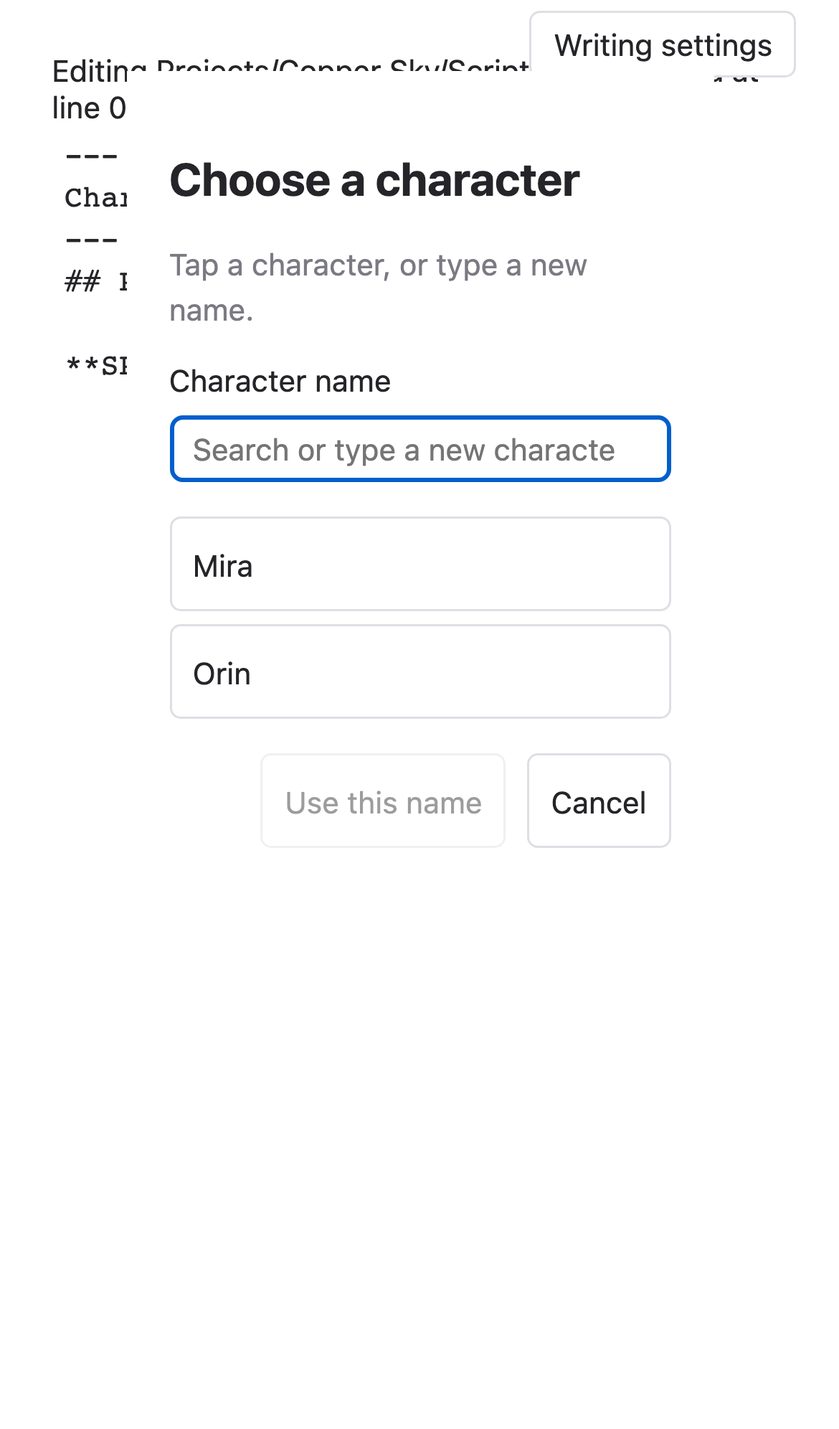
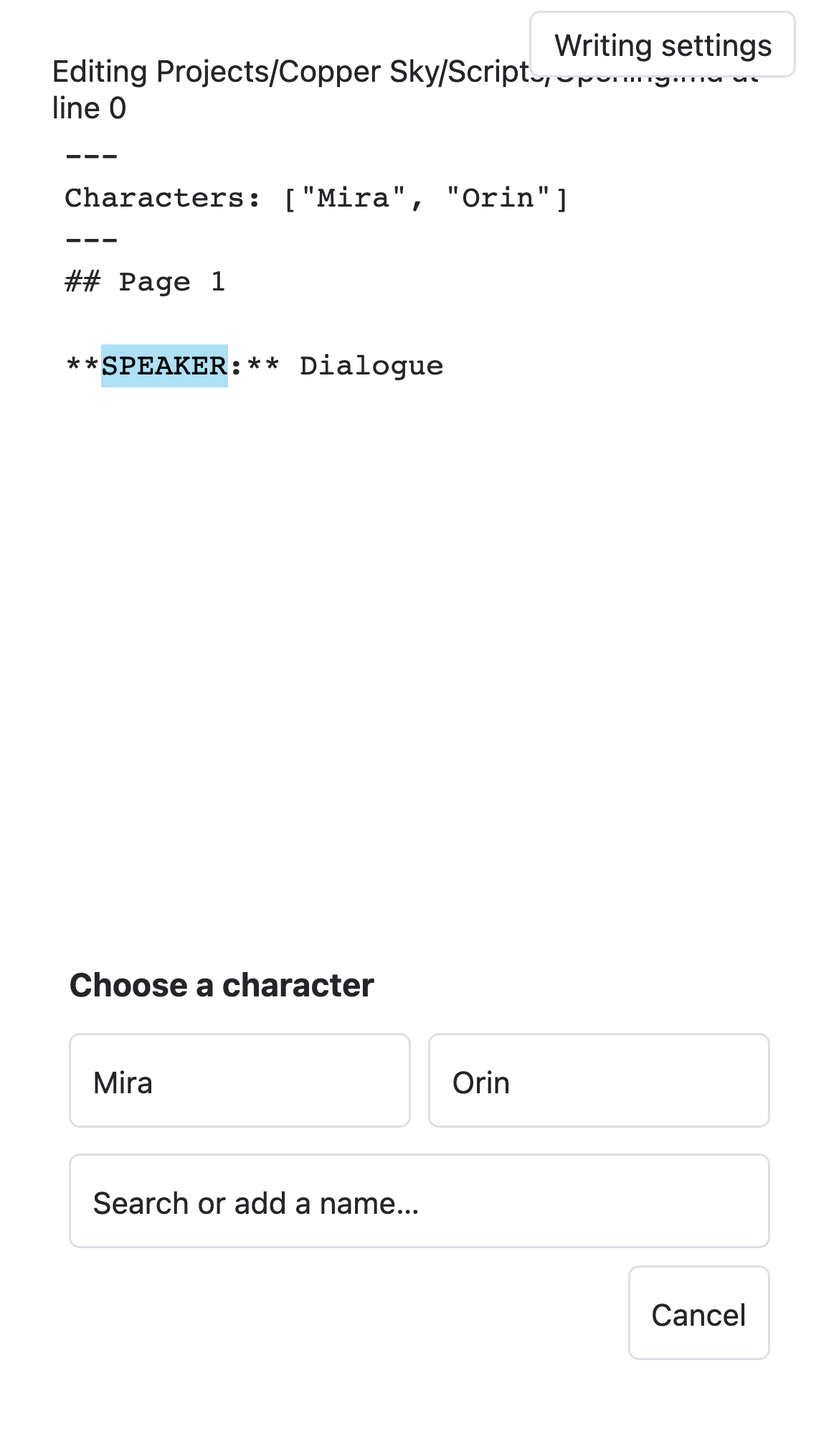
Mobile Dialog picker

diff --git a/src/scripts/mobile-speaker-picker.ts b/src/scripts/mobile-speaker-picker.ts
@@ -5,44 +5,65 @@ import { filterSpeakers, type Speaker } from "./speakers.ts";
 import { speakerPicker, closeSpeakerPicker, chooseSpeaker } from "./speaker-picker.ts";
 
 const dialogs = new WeakMap<EditorView, MobileSpeakerModal>();
+// Session-only, bounded recency: no name history or preference is written to the vault.
+const recent = new WeakMap<App, Map<string, string[]>>();
 
 class MobileSpeakerModal extends Modal {
   private original;
   private restoreFocus = true;
   private clearState = true;
+  private cleanupViewport?: () => void;
   constructor(app: App, private view: EditorView, private path: string, private candidates: Speaker[]) {
     super(app);
+    this.shouldRestoreSelection = false;
     this.original = view.state.doc;
   }
   onOpen() {
     this.modalEl.classList.add("marginalia-mobile-speaker-picker");
+    this.containerEl?.classList.add("marginalia-speaker-sheet-container");
     const root = this.contentEl;
-    root.append(el("h2", "", "Choose a character"));
-    root.append(el("p", "marginalia-script-caption", "Tap a character, or type a new name."));
+    const heading = el("h2", "", "Choose a character");
+    heading.tabIndex = -1;
+    root.append(heading);
     const label = el("label", "marginalia-mobile-speaker-label", "Character name");
     const input = el("input") as HTMLInputElement;
     input.type = "search";
     input.placeholder = "Search or type a new character…";
     input.setAttribute("aria-label", "Character name");
     label.append(input);
+    label.hidden = true;
+    const search = button("Search or add a name…", () => {
+      label.hidden = false; search.hidden = true;
+      draw(); input.focus({preventScroll:true});
+    }, "marginalia-mobile-speaker-search");
     const list = el("div", "marginalia-mobile-speaker-list");
     list.setAttribute("role", "group");
     list.setAttribute("aria-label", "Characters used in this script");
     const actions = el("div", "marginalia-mobile-speaker-actions");
     const useName = button("Use this name", () => {
       const name = input.value.trim();
-      if (name && !/[\r\n:*]/.test(name)) this.choose({id:name, name, insert:name});
+      if (name && !/[\r\n:*]/.test(name)) this.choose({id:"name:" + name.normalize("NFKC").toLocaleLowerCase(), name, insert:name});
     });
     const draw = () => {
       list.replaceChildren();
-      const choices = filterSpeakers(this.candidates, input.value);
+      const ids = recent.get(this.app)?.get(this.path) ?? [];
+      const ordered = [...this.candidates].sort((a,b) => {
+        const rank = (id:string) => ids.includes(id) ? ids.indexOf(id) : ids.length;
+        return rank(a.id)-rank(b.id);
+      });
+      const matches = filterSpeakers(ordered, input.value);
+      const choices = label.hidden ? matches.slice(0,6) : matches;
       for (const choice of choices) {
         const item = button(choice.name, () => this.choose(choice), "marginalia-mobile-speaker-choice");
-        if (choice.path) item.append(el("small", "", choice.path));
+        if (choice.path && this.candidates.some(other => other.id !== choice.id && other.name === choice.name))
+          item.append(el("small", "", choice.path));
         list.append(item);
       }
       if (!choices.length) list.append(el("p", "marginalia-script-caption", "No matching character. You can use a new name."));
       useName.disabled = !input.value.trim() || /[\r\n:*]/.test(input.value);
+      useName.hidden = !input.value.trim();
+      if (!useName.hidden) useName.textContent = `Use “${input.value.trim()}”`;
+      search.textContent = this.candidates.length > 6 ? `Search ${this.candidates.length} characters or add a name…` : "Search or add a name…";
     };
     input.oninput = draw;
     // Soft-keyboard events and repeated Enter must never accept the first result.
@@ -52,10 +73,22 @@ class MobileSpeakerModal extends Modal {
     input.onbeforeinput = event => {
       if (["insertParagraph", "insertLineBreak"].includes(event.inputType)) event.preventDefault();
     };
+    // No held/repeated Enter can activate the first button after the editor blurs.
+    root.addEventListener("keydown", event => {
+      if (event.key === "Enter") { event.preventDefault(); event.stopPropagation(); }
+    }, true);
     actions.append(useName, button("Cancel", () => this.close()));
-    root.append(label, list, actions);
+    root.append(list, search, label, actions);
     draw();
-    input.focus();
+    heading.focus({preventScroll:true});
+    // Keep the native sheet above the visible keyboard when search is explicitly opened.
+    const win = this.modalEl.ownerDocument.defaultView, viewport = win?.visualViewport;
+    const position = () => {
+      this.containerEl?.style.setProperty("--marginalia-speaker-viewport-top", `${viewport?.offsetTop ?? 0}px`);
+      this.containerEl?.style.setProperty("--marginalia-speaker-viewport-height", `${viewport?.height ?? win?.innerHeight ?? 600}px`);
+    };
+    position(); viewport?.addEventListener("resize", position); viewport?.addEventListener("scroll", position); win?.addEventListener("resize", position);
+    this.cleanupViewport = () => { viewport?.removeEventListener("resize", position); viewport?.removeEventListener("scroll", position); win?.removeEventListener("resize", position); };
   }
   private choose(choice: Speaker) {
     if (!this.view.dom.isConnected || this.view.state.doc !== this.original ||
@@ -68,6 +101,10 @@ class MobileSpeakerModal extends Modal {
       new Notice("Could not insert the character. Cancel and use /d again.");
       return;
     }
+    const paths = recent.get(this.app) ?? new Map<string,string[]>();
+    recent.set(this.app,paths);
+    paths.set(this.path,[choice.id,...(paths.get(this.path) ?? []).filter(id => id !== choice.id)].slice(0,6));
+    if (paths.size > 32) paths.delete(paths.keys().next().value!);
     this.close();
   }
   discard() {
@@ -75,11 +112,13 @@ class MobileSpeakerModal extends Modal {
     this.close();
   }
   onClose() {
+    this.cleanupViewport?.();
     if (dialogs.get(this.view) === this) dialogs.delete(this.view);
     if (this.clearState && this.view.state.field(speakerPicker, false))
       this.view.dispatch({effects: closeSpeakerPicker.of(null)});
     this.contentEl.replaceChildren();
-    if (this.restoreFocus && this.view.dom.isConnected) this.view.focus();
+    if (this.restoreFocus && this.view.dom.isConnected && this.view.state.field(editorInfoField, false)?.file?.path === this.path)
+      this.view.focus();
   }
 }
 
@@ -90,7 +129,10 @@ export function openMobileSpeakerPicker(app: App, view: EditorView, path: string
   // Finish the originating Enter event before focusing a native dialog.
   queueMicrotask(() => {
     if (dialogs.get(view) !== dialog) return;
-    if (view.dom.isConnected && view.state.field(speakerPicker, false)) dialog.open();
+    if (view.dom.isConnected && view.state.field(speakerPicker, false)) {
+      view.contentDOM.blur();
+      dialog.open();
+    }
     else dialog.discard();
   });
 }

diff --git a/styles.css b/styles.css
@@ -945,6 +945,23 @@ body.is-mobile .marginalia-project-card {overflow-wrap:anywhere;}
 .marginalia-mobile-speaker-choice small {color:var(--text-muted);}
 .marginalia-mobile-speaker-actions {display:flex;flex-wrap:wrap;gap:10px;justify-content:flex-end;}
 .marginalia-mobile-speaker-actions button {min-height:44px;}
+body.is-mobile .marginalia-speaker-sheet-container {
+  position:fixed;top:var(--marginalia-speaker-viewport-top,0px);bottom:auto;
+  height:var(--marginalia-speaker-viewport-height,100dvh);left:0;right:0;
+  display:flex;align-items:flex-end;justify-content:center;padding:12px 12px max(12px,env(safe-area-inset-bottom));
+}
+body.is-mobile .marginalia-mobile-speaker-picker {
+  position:relative !important;inset:auto !important;margin:0 !important;transform:none !important;
+  width:min(100%,560px);min-width:0;max-width:100%;max-height:calc(100% - 24px);
+  padding:20px;border-radius:18px;overflow:auto;
+}
+.marginalia-mobile-speaker-picker h2 {font-size:var(--font-ui-medium);margin:0 30px 14px 0;}
+.marginalia-mobile-speaker-picker .marginalia-mobile-speaker-list {flex-direction:row;flex-wrap:wrap;gap:8px;margin:0 0 12px;max-height:28vh;}
+.marginalia-mobile-speaker-picker .marginalia-mobile-speaker-choice {flex:1 0 calc(50% - 8px);min-width:0;max-width:100%;}
+.marginalia-mobile-speaker-search {width:100%;min-height:44px;white-space:normal;text-align:left;margin-bottom:8px;}
+.marginalia-mobile-speaker-picker .marginalia-mobile-speaker-label {margin-bottom:10px;}
+.marginalia-mobile-speaker-picker [hidden] {display:none !important;}
+.marginalia-mobile-speaker-picker .marginalia-mobile-speaker-actions {gap:8px;}
 
 /* Focus is local to recognized native script editors. */
 .marginalia-writing-focus .cm-line { opacity: .45; }

diff --git a/scripts/obsidian-preview.ts b/scripts/obsidian-preview.ts
@@ -33,11 +33,12 @@ export class MarkdownRenderChild { constructor(public containerEl: any) {} }
 export class FuzzySuggestModal {}
 export const normalizePath = (path: string) => path.replace(/\\/g, "/").replace(/\/{2,}/g, "/").replace(/^\/(?!$)|\/$/g, "") || "/";
 export class Modal {
+  containerEl = document.createElement("div");
   modalEl = document.createElement("div");
   contentEl = document.createElement("div");
   constructor(public app: any) {}
-  open() { this.contentEl.setAttribute("role", "dialog");this.modalEl.style.cssText="position:fixed;z-index:1000;inset:5vh 15vw;background:var(--background-primary);padding:20px;overflow:auto;";this.modalEl.append(this.contentEl); document.body.append(this.modalEl); (this as any).onOpen?.(); }
-  close() { (this as any).onClose?.(); this.modalEl.remove(); }
+  open() { this.contentEl.setAttribute("role", "dialog");this.modalEl.style.cssText="position:fixed;z-index:1000;inset:5vh 15vw;background:var(--background-primary);padding:20px;overflow:auto;";this.modalEl.append(this.contentEl);this.containerEl.append(this.modalEl); document.body.append(this.containerEl); (this as any).onOpen?.(); }
+  close() { (this as any).onClose?.(); this.containerEl.remove(); }
 }
 export const MarkdownRenderer = {
   render: async (_app: any, text: string, el: HTMLElement) => {

diff --git a/docs/verification/dialogue-picker-2026-10-25.md b/docs/verification/dialogue-picker-2026-10-25.md
@@ -1,0 +1,48 @@
+# Compact dialogue picker trial — October 25, 2026
+
+D-0045 implements the owner's approved reversible trial in the Obsidian plugin only. Installed in the authorized Reanimator iCloud vault and packaged in `dist/marginalia-0.1.0-dev.zip`; the test-vault installation also has matching files. No saved-data schema or note migration.
+
+## Behavior
+
+`/d` plus Enter retains the existing native shortcut transaction. On mobile, the editor blurs and a native Modal appears as a compact bottom sheet with up to six character buttons. It starts without a visible/focused text field. Recent successful choices for the current script come first; recency is bounded, in memory and resets with the plugin session. Search or add a name explicitly opens the search field, makes the complete cast available, and exposes a named Use action for entered text. The sheet tracks the owner window's visual viewport. Selection and Cancel synchronously restore native editor focus; choosing selects Dialogue, while Cancel leaves SPEAKER selected. The existing source/document/file checks, isolated Undo, mobile lifecycle cleanup and desktop inline dropdown remain.
+
+## Verification
+
+| Requirement | Evidence | Result |
+| --- | --- | --- |
+| Existing behavior/build | 196 automated tests (125 pure/core + 71 host), typecheck/package | Pass |
+| Bottom layout with no initial text focus | Production component in phone/Android/tablet Chromium profiles; native iPhone Mirroring screenshot | Pass at these boundaries |
+| Six quick choices; full cast searchable | Eight-candidate browser fixture shows six quick choices; search selects the eighth; previous successful Orin sorts first | Pass, browser |
+| Native recent ordering | Explicit Orin choice, Undo/reopen; Orin appears before Mira | Pass, iPhone |
+| Explicit character choice and focus | Native Orin tap closes sheet and selects Dialogue in editor; subsequent Undo restores SPEAKER, then `/d` | Pass, iPhone with Mac keyboard |
+| Repeated Enter cannot pick first item | Native host focuses first character button after opening; repeated Enter leaves sheet open; browser tests also exercise repeated soft line breaks | Pass at observed boundaries |
+| Optional search/custom name | Native Search opens field; type Nova; Enter does not accept; explicit Use “Nova” selects Dialogue in editor | Pass, iPhone with Mac keyboard |
+| Cancel | Native tap closes sheet with SPEAKER selected; no name replacement | Pass, iPhone |
+| Stale source and destroyed editor | Browser regression edits document while open (no overwrite); destroys editor (sheet closes) | Pass, browser |
+| Viewport changes during search | Browser reduces viewport to 60% height with search open; sheet stays within visible bounds in all three profiles | Pass, simulated viewport |
+| Desktop behavior | Real-CodeMirror browser desktop inline dropdown/arrows/Enter retained; no mobile dialog | Pass, browser |
+| Other Modal consumers | Compile and workspace browser regressions after realistic preview Modal wrapper change | Pass, browser |
+| Preservation | All 60 original creative-vault Markdown hashes unchanged; only the owned fictional Device Checks script changed during owner/assistant testing | Pass |
+| Final installation and rollback | Three installed files match distribution; prior ZIP contents match saved previous three-file build | Pass |
+| Actual software keyboard animation/IME/Android | Mirroring uses the Mac hardware keyboard. No measured direct-device animation, keyboard reopening, IME or physical Android acceptance | Pending owner device trial |
+
+The owner enabled the installed trial and performed an initial check; afterward Mira: Dialogue was visible with Dialogue selected. Native automation then separately observed bottom placement, Orin choice, recency, search/custom name, Cancel and Undo. The owner's short “Done” reply is not treated as a specific confirmation of software-keyboard smoothness. Mirroring intermittently displayed taps without applying them, requiring reconnection and owner-assisted toggles; keyboard shortcuts and later taps allowed the functional checks. These tool problems are not attributed to the picker.
+
+Assistant-added test dialogue was undone; the owner's Mira: Dialogue example remains in the fictional project. No model calls, settings edits, new persistence, dependencies or original-script edits.
+
+## Rollback
+
+The previous working dialog is preserved locally under `.rollback/dialogue-picker-2026-10-25/`, ignored by Git:
+
+- `marginalia-before-bottom-picker.zip`: prior installable three-file plugin.
+- `plugin/`: prior main.js, styles.css and manifest.json.
+- `source/`: prior mobile picker, styles, browser harness/test and governing-document snapshots.
+- `base.txt`: starting Git revision; `README.md`: restore instructions.
+
+To revert the installed trial: disable Marginalia, replace only main.js/styles.css/manifest.json from the saved build, retain data.json, and enable Marginalia again. No data migration is needed. Restore source selectively; never blindly replace later unrelated work or rewrite subsequent decision-log entries.
+
+## Screenshots
+
+- `../../design/verification/dialogue-picker-2026-10-25/iphone-quick-picker.png`: actual native quick choices.
+- `../../design/verification/dialogue-picker-2026-10-25/iphone-search.png`: explicit new-name action.
+- `../../design/verification/mobile-{phone,android,tablet}-character-dialog.png`: initial quick sheet in browser profiles.

diff --git a/docs/PRODUCT.md b/docs/PRODUCT.md
@@ -97,7 +97,7 @@ Main module settings share a two-column layout: explanatory text wraps on the le
 
 The manifest permits mobile loading. World/Storyboard app navigation remains above the native file viewer; Home is also available as a command independently of the explorer. App pages use the native main pane and close the left drawer after navigation. Script Studio uses the native left drawer; selecting a scope or script reveals the main reader/editor and closes the drawer. Pages start closed as on desktop. Touch controls have larger hit areas and phone fields can stack beneath their descriptions.
 
-Script slash commands keep native CodeMirror editing and Undo. Hardware Enter uses the existing keymap. iOS soft-keyboard paragraph/line-break events use the same guarded planner; Android retains CodeMirror’s deferred native Enter handling so IME/DOM updates can settle first. Composition and unrelated input remain native. On mobile, /d opens a native Choose a character dialog when candidates exist. Search and tap a character, or type a new name and tap Use this name. Repeated Enter/Tab or soft line breaks never accept the first result. Cancel keeps SPEAKER selected for direct typing. A choice selects Dialogue and remains a separate Undo step. Mobile does not rely on the editor tooltip and does not dismiss picker state when focus enters the dialog. A changed source/file blocks stale insertion, and editor destruction/module unload closes the dialog. Vault suggestion options retain touch support.
+Script slash commands keep native CodeMirror editing and Undo. Hardware Enter uses the existing keymap. iOS soft-keyboard paragraph/line-break events use the same guarded planner; Android retains CodeMirror’s deferred native Enter handling so IME/DOM updates can settle first. Composition and unrelated input remain native. On mobile, /d opens a compact native Choose a character bottom sheet when candidates exist (D-0045 trial). It blurs the editor and initially shows up to six character buttons without focusing a text input. Successful recent choices appear first for that script during the current plugin session, without saved name history. Search or add a name opens the search field and the complete cast; an entered name exposes an explicit Use “name” action. The sheet follows the visible viewport while search has the keyboard up. A choice or Cancel restores native editor focus; actual software-keyboard lowering/reopening smoothness still requires direct-device acceptance. Repeated Enter/Tab or soft line breaks never accept the first result. Cancel keeps SPEAKER selected for direct typing. A choice selects Dialogue and remains a separate Undo step. Mobile does not rely on the editor tooltip and does not dismiss picker state when focus enters the dialog. A changed source/file blocks stale insertion, and editor destruction/module unload closes the dialog. Vault suggestion options retain touch support.
 
 Librarian does not start, connect, register AI commands or add note actions on mobile. Its settings section explains desktop-only availability instead of exposing model/connection controls. A restored desktop Librarian or expansion tab shows the same explanation. This runtime restriction never overwrites the saved desktop module/model preferences. Connecting to a computer on the LAN is technically possible with Ollama but is outside this version’s loopback-only transport boundary. No inference runtime, cloud service or networking permission is added.
 

diff --git a/docs/ARCHITECTURE.md b/docs/ARCHITECTURE.md
@@ -103,7 +103,7 @@ WorkspaceSettings.hiddenFolders defaults to [_Assets] only for missing settings;
 
 ## Mobile dialogue selection (D-0035)
 
-scripts/mobile-speaker-picker.ts uses the public Obsidian Modal with an unselected list of explicit buttons, a local search/name input, Use this name and Cancel. speakerPicker retains the same source ranges and candidates but its tooltip provider is disabled on Platform.isMobile. acceptSpeakerKey consumes pending mobile picker acceptance keys without choosing; chooseSpeaker rejects an implicit candidate on mobile. iOS beforeinput uses that same guard, and Android’s native deferred keymap handling remains intact. Desktop key behavior is unchanged.
+`src/scripts/mobile-speaker-picker.ts` uses the public Obsidian Modal with explicit touch buttons and Cancel. D-0045 changes its mobile presentation to a compact bottom sheet. The editor blurs before opening, search starts hidden and a non-input heading is focused; native host focus may subsequently move to a button, so a capture guard blocks repeated Enter from choosing it. Search is shown and focused only by an explicit tap, filters the full cast and reveals Use “name” for entered text. A bounded session-only WeakMap orders up to six recent identities for each of at most 32 script paths per app; no recency is persisted. Owner-window visualViewport resize/scroll listeners size the sheet above the visible keyboard and are removed on close. Native Modal selection restoration is disabled because the existing editor transaction owns the Dialogue selection. speakerPicker retains the same source ranges and candidates but its tooltip provider is disabled on Platform.isMobile. acceptSpeakerKey consumes pending mobile picker acceptance keys without choosing; chooseSpeaker rejects an implicit candidate on mobile. iOS beforeinput uses that same guard, and Android’s native deferred keymap handling remains intact. Desktop key behavior is unchanged.
 
 The mobile dialog opens in a microtask after shortcut commit, preserving the state across editor blur. It snapshots the CodeMirror document object and original file path, checks both plus attached DOM before applying a choice, and delegates to chooseSpeaker for the existing history/selection transaction. Cancel clears picker state without source edits and restores editor focus. A WeakMap and mobile-only ViewPlugin destruction hook close owned dialogs without dispatching into destroyed editors. No model calls, new persistence or dependencies.
 

diff --git a/docs/PROJECT-CONTEXT.md b/docs/PROJECT-CONTEXT.md
@@ -212,3 +212,6 @@ D-0043 completes Step 3: one project resolver across workspace/creation/scripts/
 
 
 D-0044: owner skipped optional writing diagnostics and authorized Step 5 plus production installation into iCloud Reanimator for iPhone Mirroring. Native iPhone drawer/Studio/numbering, character picker/Cancel/Undo, hardware-input focus, Compile preview/date/byline, short timer background/resume, report/CSV, module cleanup and final plugin reload/history persistence are verified. Ordinary project/settings/CSV iCloud delivery is observed; hidden Librarian files are not verified. Native macOS Obsidian 1.14.5 project-reader popout works. A singular-session report label was fixed and final build installed in both authorized vault locations. All 60 pre-existing Reanimator Markdown hashes unchanged; writing preferences/modules/author restored. Fictional device project, one sample session and CSV retained. Direct software keyboard/IME/rotation/long-press/history-column touch access, Android, Windows/Linux PDF and wider compatibility remain open. See verification/device-release-2026-10-25.md.
+
+
+D-0045: owner approved trying the compact mobile bottom character picker with an easy rollback. Native Modal and guarded editor transactions reused; editor blur/no initial search focus, six session-recent quick choices, explicit full-cast/custom search and synchronous editor focus restoration. Desktop unchanged; no persisted recency or data migration. 196 tests and mobile/Compile/workspace browser checks pass; native iPhone Mirroring checks confirm bottom position, explicit choice, repeated Enter, recency, search/custom name, Cancel and Undo. Software-keyboard animation/IME/physical Android remain pending direct testing. Installed in authorized Reanimator and test-vault folders. Original 60 creative Markdown notes unchanged; owner’s Mira example retained only in fictional test script. Prior source/build and restore instructions: .rollback/dialogue-picker-2026-10-25. Evidence: verification/dialogue-picker-2026-10-25.md.

diff --git a/docs/VERIFICATION.md b/docs/VERIFICATION.md
@@ -490,3 +490,8 @@ Final native bounded-correction run: the initial Key Scenes allegation was flagg
 ## October 25 — Step 5 device and release checks (D-0044)
 
 196 tests, typecheck/package and all relevant browser/loading regressions pass. Native iPhone Mirroring in the authorized Reanimator vault verifies drawer/project/Studio navigation, calculated names/numbers, explicit character picker/repeated Enter/Cancel/Undo, hardware-input focus position, Compile options/date/byline/preview, short timer background/resume, session report/CSV, settings/history reload and Scripts-module cleanup. Ordinary iCloud project/settings/CSV delivery was observed. Native desktop 1.14.5 project-reader popout/disclosures pass. The final iPhone build includes a singular-session label correction. All 60 pre-existing Markdown hashes unchanged; writing preferences/modules/author restored. No diagnostics feature added. Direct phone keyboard/IME/rotation/long-press/report-column access, Android, Windows/Linux PDF, hidden Librarian Sync and broader compatibility/lifecycle cases remain open. [Detailed evidence and follow-through checklist](verification/device-release-2026-10-25.md).
+
+
+## October 25 — compact mobile dialogue picker trial (D-0045)
+
+196 tests and typecheck/package pass; mobile browser profiles verify bottom placement, six/recent choices, full-cast/custom search, reduced viewport, focus restoration, explicit acceptance, Cancel/Undo, stale-source rejection and destruction. Compile/workspace regressions pass. Native Reanimator iPhone Mirroring verifies bottom placement, repeated Enter, Orin choice, Dialogue selection, Undo, recency, optional search/Nova and Cancel. Actual software-keyboard transitions/IME and physical Android remain pending. All 60 original creative notes unchanged; only fictional Device Checks used. Prior source and installable ZIP preserved under the ignored `.rollback/dialogue-picker-2026-10-25/` folder. [Evidence and rollback](verification/dialogue-picker-2026-10-25.md).

diff --git a/DECISIONS.md b/DECISIONS.md
@@ -267,3 +267,11 @@
 - Question: Proceed with optional writing diagnostics or move directly to device/release checks.
 - Decision: Owner said “Let's skip step 4: Optional writing diagnostics. You can do step 5” and explicitly authorized the newest plugin installation in the iCloud Reanimator vault for iPhone Mirroring tests.
 - Impact: No writing-diagnostics feature is implemented. Device checks use a separate fictional project and a backed-up plugin/settings baseline; original notes are hash-checked. Report native iPhone/Mac evidence separately from browser emulation and unavailable Android/Windows/Linux/direct-keyboard/rotation/Sync checks. Preserve the desktop-only Librarian and PDF-export boundaries. A singular session-count label found during acceptance is corrected.
+
+
+## D-0045 · Reversible mobile bottom character picker trial · 2026-10-25 · Mobile writing
+- Question: Streamline mobile dialogue-name insertion while handling the software keyboard.
+- Options: Compact bottom picker that temporarily blurs the editor / persistent chips above the keyboard / typed-name shortcut.
+- Recommendation: Reuse the native guarded Modal and editor transaction; blur the editor for quick character taps, explicitly open search, then restore editor focus and Dialogue selection.
+- Decision: Owner said “Let's try this, but keep what's needed to revert if it doesn't work smoothly.” Reanimator installation and Mirroring checks remain authorized.
+- Impact: Up to six session-recent script characters appear as touch buttons in a bottom sheet; search exposes the complete existing cast and explicit custom-name action. No new setting, saved-name history, note migration or dependency. Existing source/file guards, explicit selection, Cancel, native Undo and desktop dropdown remain. Prior source and installable build retained in the ignored .rollback/dialogue-picker-2026-10-25 folder. Native Mirroring evidence is distinguished from direct software-keyboard smoothness acceptance.

diff --git a/docs/ROADMAP.md b/docs/ROADMAP.md
@@ -209,3 +209,15 @@ Skipped by owner (D-0044). No writing-check interface, finding persistence or di
 - [ ] Wider themes/plugin combinations, user-assigned shortcut conflicts, sustained large-project native profiling and remaining editor/sidebar popout cases.
 
 [Device/release evidence and remaining checklist](verification/device-release-2026-10-25.md). Step 5 is partial until these device/platform checks are completed.
+
+
+## Compact mobile dialogue picker — reversible trial (D-0045)
+
+- [x] Native bottom sheet with six quick choices, session-only recency and optional full-cast search/custom name.
+- [x] Preserve explicit choice, repeated-Enter guard, original source/file checks, Cancel, Dialogue selection, native Undo and desktop dropdown.
+- [x] Retain previous source plus installable three-file ZIP; preserve data.json and avoid setting/schema migration.
+- [x] 196 tests, package/typecheck; phone/Android/tablet browser behavior and modal-dependent Compile/workspace regressions.
+- [x] Native iPhone Mirroring: bottom position, collapsed search, repeated Enter, explicit choice, Dialogue selection, Undo and recent ordering.
+- [ ] Direct software-keyboard dismissal/reopening smoothness, search placement above keyboard, IME and physical Android acceptance. Mirroring uses hardware keyboard input.
+
+See verification/dialogue-picker-2026-10-25.md for evidence and rollback instructions.
